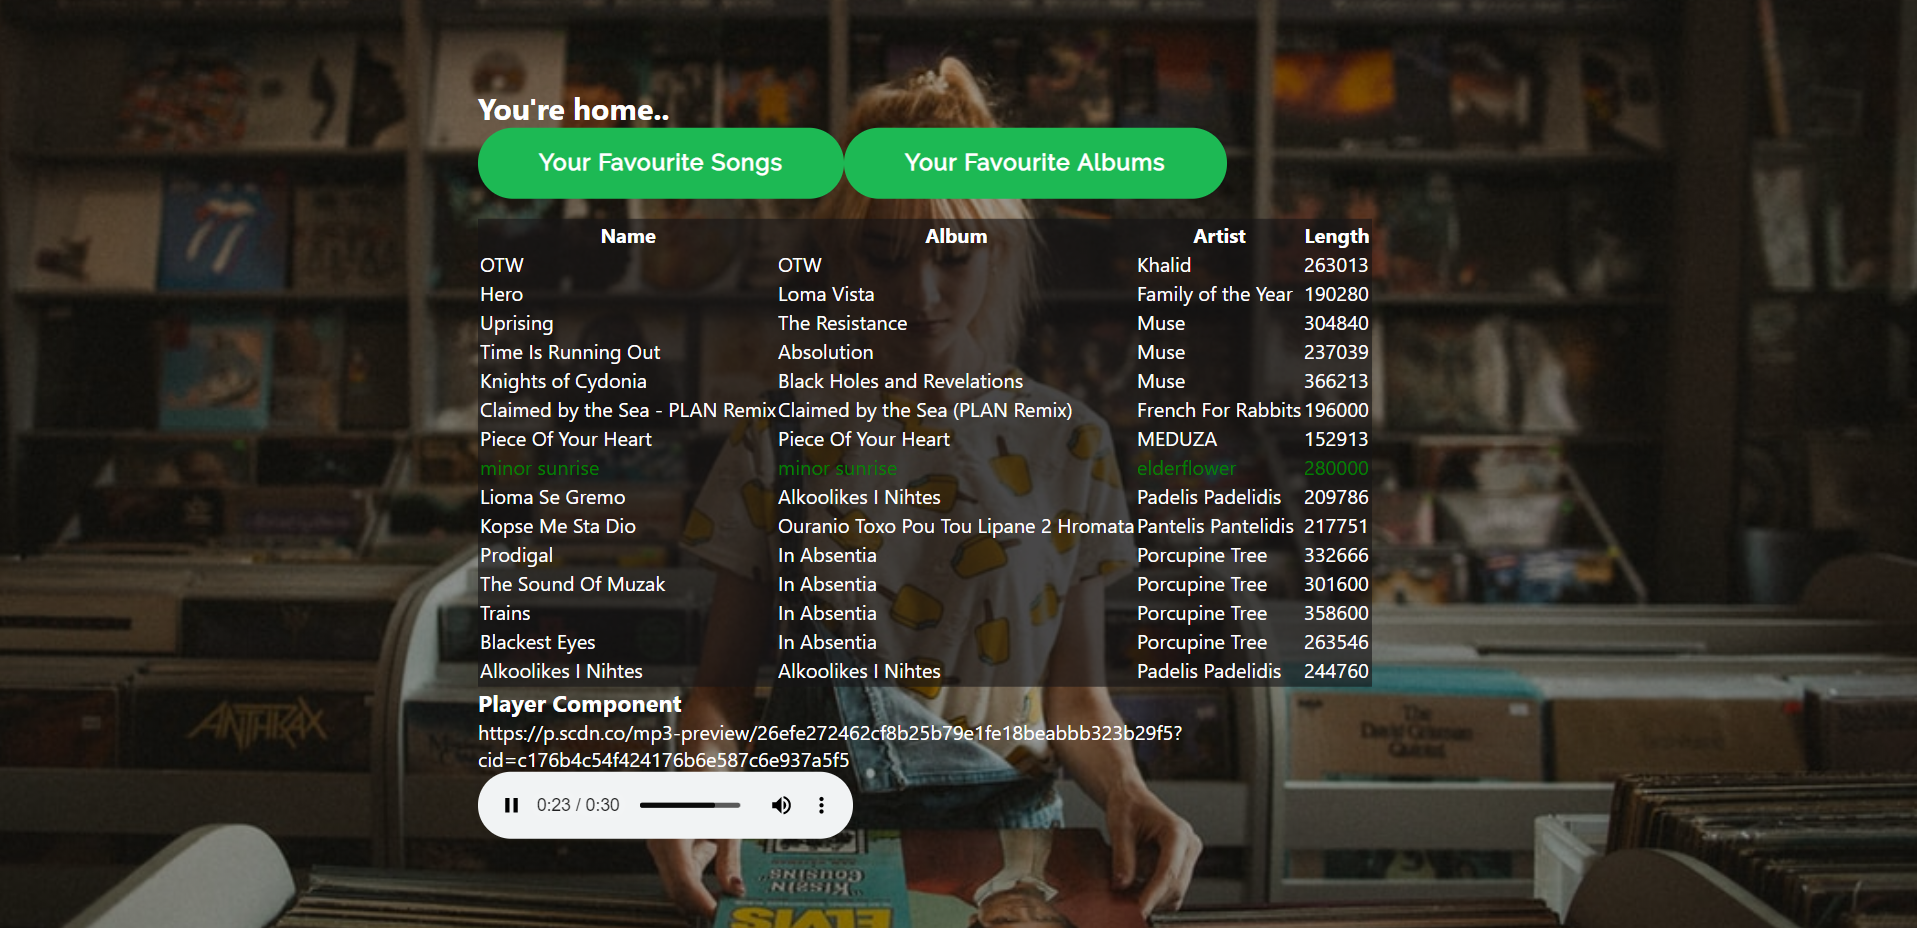
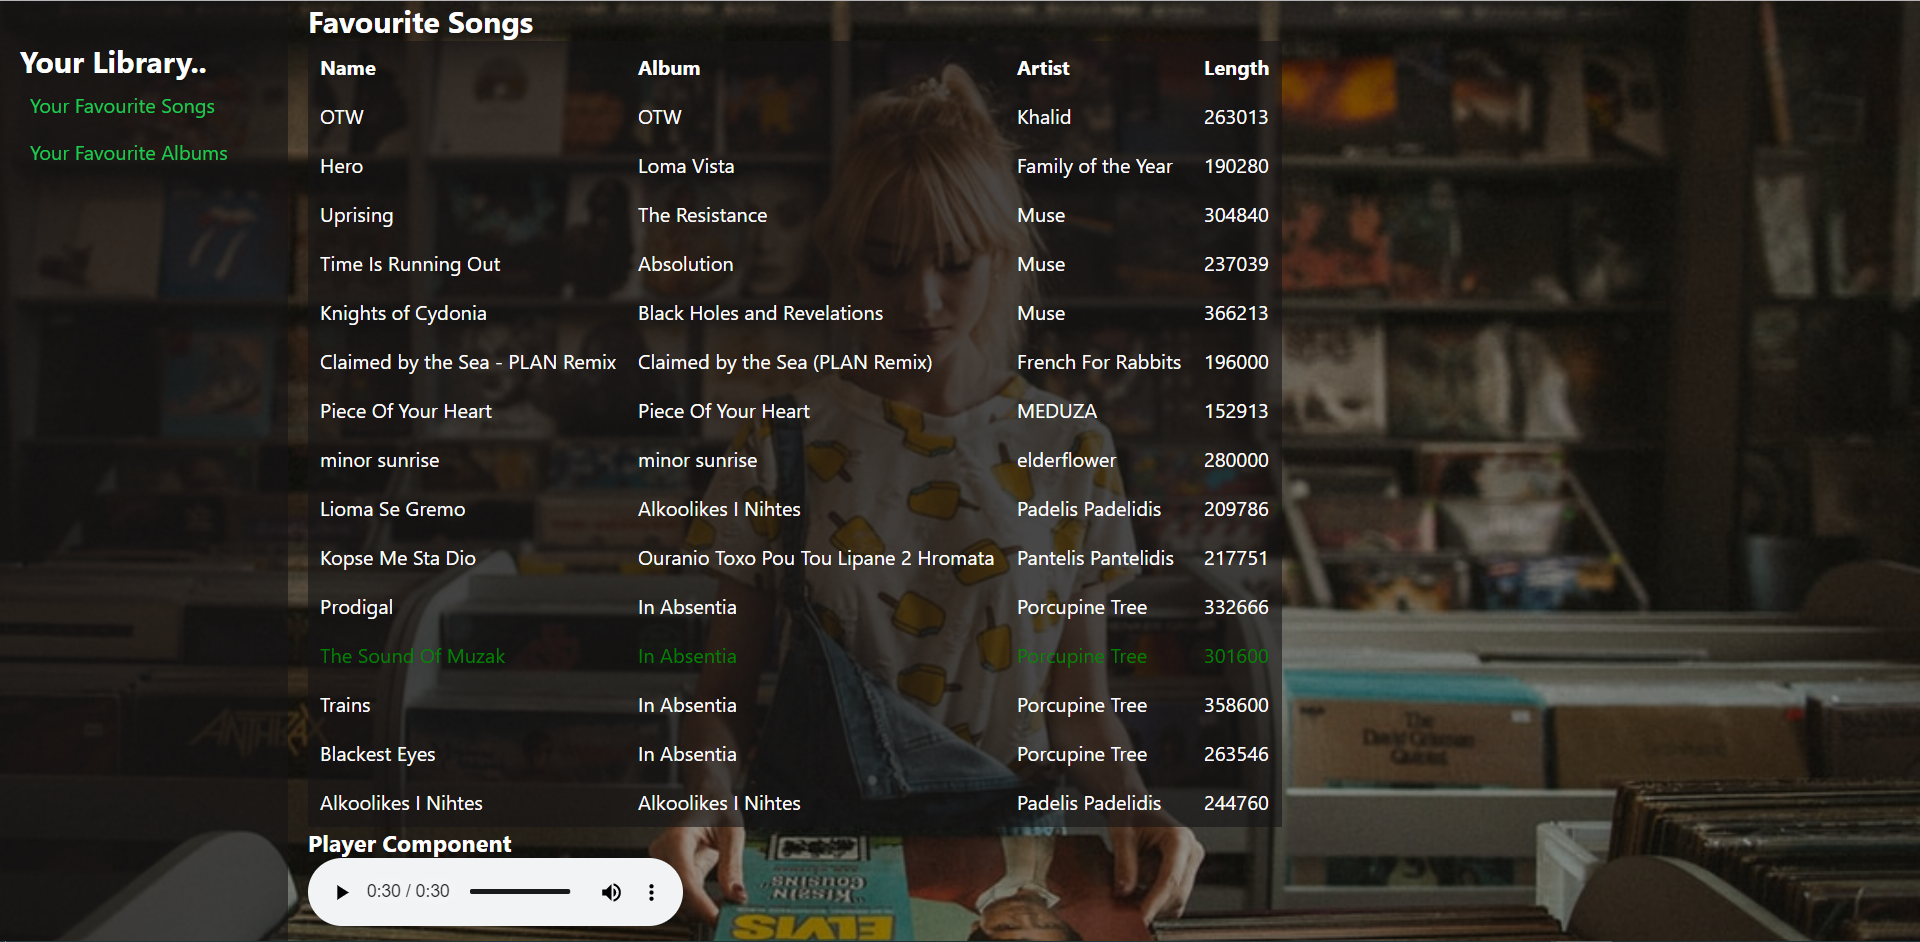
README updated and css added

diff --git a/src/components/Home.js b/src/components/Home.js
@@ -1,34 +1,34 @@
 import React from 'react';
 // import SDKPlayer from './SDKPlayer';
-import { Link, Switch, Route } from 'react-router-dom';
-import Player from './Player';
+import { Switch, Route } from 'react-router-dom';
 import FavouriteAlbums from './users-favourites/FavouriteAlbums';
 import FavouriteSongs from './users-favourites/FavouriteSongs';
 import ShowAlbum from './ShowAlbum';
+import NavMenu from './NavMenu';
+import Player from './Player';
 
 function Home() {
   return (
-    <main>
-      <h2>You're home..</h2>
-      <Link to={`/home/favourite-songs`}>
-        <button>Your Favourite Songs</button>
-      </Link>
-      <Link to='/home/favourite-albums'>
-        <button>Your Favourite Albums</button>
-      </Link>
-
-      <Switch>
-        <Route path='/home/favourite-albums' component={FavouriteAlbums} />
-        <Route path='/home/favourite-songs' component={FavouriteSongs} />
-        <Route path='/home/album/:albumId' component={ShowAlbum} />
-      </Switch>
-
-      <Player />
+    <div id='main-home-container'>
+      <div id='side-menu'>
+        <div style={{ marginTop: '2rem', marginLeft: '1rem' }}>
+          <h2>Your Library..</h2>
+          <NavMenu />
+        </div>
+      </div>
+      <main>
+        <Switch>
+          <Route path='/home/favourite-albums' component={FavouriteAlbums} />
+          <Route path='/home/favourite-songs' component={FavouriteSongs} />
+          <Route path='/home/album/:albumId' component={ShowAlbum} />
+        </Switch>
+        <Player />
+      </main>
 
       {/* <SDKPlayer accessToken={this.state.accessToken} /> */}
 
       {/* <SDKPlayer accessToken={this.context[0].accessToken} /> */}
-    </main>
+    </div>
   );
 }
 

diff --git a/src/App.js b/src/App.js
@@ -11,22 +11,22 @@ function App() {
   return (
     <div className='App'>
       <header>
-        <div id='header-content'>
-          <AccessTokenProvider>
-            <BrowserRouter>
-              <Switch>
-                {/* {redirectHandler} */}
-                {/* <Redirect exact from='/' to='/login' />} */}
-                <Redirect exact from='/' to='/login' />}
-                <Route exact path='/login' component={Login} />
-                <Route exact path='/receive-token' component={ReceiveToken} />
-                <PlayerSourceProvider>
-                  <Route path='/home' component={Home} />
-                </PlayerSourceProvider>
-              </Switch>
-            </BrowserRouter>
-          </AccessTokenProvider>
-        </div>
+        {/* <div id='header-content'> */}
+        <AccessTokenProvider>
+          <BrowserRouter>
+            <Switch>
+              {/* {redirectHandler} */}
+              {/* <Redirect exact from='/' to='/login' />} */}
+              <Redirect exact from='/' to='/login' />}
+              <Route exact path='/login' component={Login} />
+              <Route exact path='/receive-token' component={ReceiveToken} />
+              <PlayerSourceProvider>
+                <Route path='/home' component={Home} />
+              </PlayerSourceProvider>
+            </Switch>
+          </BrowserRouter>
+        </AccessTokenProvider>
+        {/* </div> */}
       </header>
     </div>
   );

diff --git a/src/components/ShowAlbum.js b/src/components/ShowAlbum.js
@@ -31,17 +31,25 @@ const ShowAlbum = () => {
 
   return (
     <div>
-      <h2 id='albums'>{album.name}</h2>
-      {album.images && album.tracks && album.artists[0] ? (
+      {album.images && album.tracks && album.artists[0] && (
         <div>
-          <h3>{album.artists[0].name}</h3>
-          <h3>{album.release_date.substring(0, 4)}</h3>
-          <img src={album.images[2].url} alt='Album Cover' />
+          <div className='album-header'>
+            <section style={{ marginRight: '1rem' }}>
+              <img src={album.images[2].url} alt='Album Cover' />
+            </section>
+            <section style={{ marginTop: '-5px' }}>
+              <div>
+                <h3 id='albums'>{album.name}</h3>
+                <h4>{album.artists[0].name}</h4>
+                <h4>{album.release_date.substring(0, 4)}</h4>
+              </div>
+            </section>
+          </div>
           <GeneralSongsList songs={album.tracks.items} />
         </div>
-      ) : (
-        <p>Loading</p>
       )}
+      {/* // ) : ( // <p>Loading</p>
+      // )} */}
     </div>
   );
 };

diff --git a/src/App.css b/src/App.css
@@ -4,6 +4,7 @@
   margin: 0;
   padding: 0;
   box-sizing: border-box;
+  /* color: white; */
 }
 
 h1 {
@@ -45,7 +46,7 @@ header {
 }
 
 #header-content {
-  color: white;
+  /* color: white; */
   position: absolute;
   top: 50%;
   left: 50%;
@@ -59,10 +60,50 @@ header {
   justify-content: center;
 }
 
+#main-home-container {
+  display: flex;
+  color: white;
+  /* justify-content: space-between;   */
+}
+
+#side-menu {
+  width: 15vw;
+  height: 100vh;
+  background-color: #1513169c;
+  margin-right: 1rem;
+  /* margin-top: 3rem; */
+}
+
+nav a {
+  display: block;
+  padding: 8px;
+  color: #1cc959;
+}
+
 .song-in-table:hover {
   color: green;
 }
 
 table {
   background-color: #1513169c;
+}
+
+th,
+td {
+  /* float: left; */
+  padding: 8px;
+}
+tr {
+  border-bottom: 5px solid rgb(118, 165, 42);
+}
+th {
+  text-align: left;
+}
+
+.album-header {
+  margin-top: 2rem;
+  display: flex;
+  width: 200px;
+  /* justify-content: space-between; */
+  align-items: center;
 }

diff --git a/src/components/auth/Login.js b/src/components/auth/Login.js
@@ -1,10 +1,12 @@
 import React from 'react';
 
 export default () => (
-  <div id='login-content'>
-    <h1>Welcome to React Spotify Player</h1>
-    <a href='http://localhost:3001/authorize?scope=user-read-private+user-library-read+user-library-modify+streaming+user-read-email&redirect=http://localhost:3000/receive-token'>
-      <button>Login to Spotify</button>
-    </a>
+  <div id='header-content'>
+    <div id='login-content'>
+      <h1>Welcome to React Spotify Player</h1>
+      <a href='http://localhost:3001/authorize?scope=user-read-private+user-library-read+user-library-modify+streaming+user-read-email&redirect=http://localhost:3000/receive-token'>
+        <button>Login to Spotify</button>
+      </a>
+    </div>
   </div>
 );

diff --git a/src/components/GeneralSongsList.js b/src/components/GeneralSongsList.js
@@ -7,13 +7,14 @@ const GeneralSongsList = props => {
     <table>
       <thead>
         <tr>
+          <th>#</th>
           <th>Name</th>
           <th>Length</th>
         </tr>
       </thead>
       <tbody>
         {props.songs.map((item, index) => (
-          <GeneralSongItem key={index} item={item} />
+          <GeneralSongItem key={index} item={item} i={index} />
         ))}
       </tbody>
       <tfoot>

diff --git a/src/components/NavMenu.js b/src/components/NavMenu.js
@@ -1,0 +1,13 @@
+import React from 'react';
+import { Link } from 'react-router-dom';
+
+const NavMenu = () => {
+  return (
+    <nav>
+      <Link to={`/home/favourite-songs`}>Your Favourite Songs</Link>
+      <Link to='/home/favourite-albums'>Your Favourite Albums</Link>
+    </nav>
+  );
+};
+
+export default NavMenu;

diff --git a/src/components/Player.js b/src/components/Player.js
@@ -30,7 +30,7 @@ const Player = () => {
   return (
     <div>
       <h3>Player Component</h3>
-      <p>{playerSource}</p>
+      {/* <p>{playerSource}</p> */}
       <audio controls ref={audioTagRef}>
         <source src={`${playerSource}`} type='audio/mpeg' />
       </audio>

diff --git a/src/components/GeneralSongItem.js b/src/components/GeneralSongItem.js
@@ -9,6 +9,7 @@ const GeneralSongItem = props => {
       className='song-in-table'
       onClick={() => setPlayerSource(props.item.preview_url)}
     >
+      <td>{props.i + 1}</td>
       <td>{props.item.name}</td>
       <td>{props.item.duration_ms}</td>
     </tr>

diff --git a/src/components/users-favourites/FavouriteSongs.js b/src/components/users-favourites/FavouriteSongs.js
@@ -28,6 +28,7 @@ const FavouriteSongs = () => {
 
   return (
     <div>
+      <h2>Favourite Songs</h2>
       <table>
         <thead>
           <tr>
